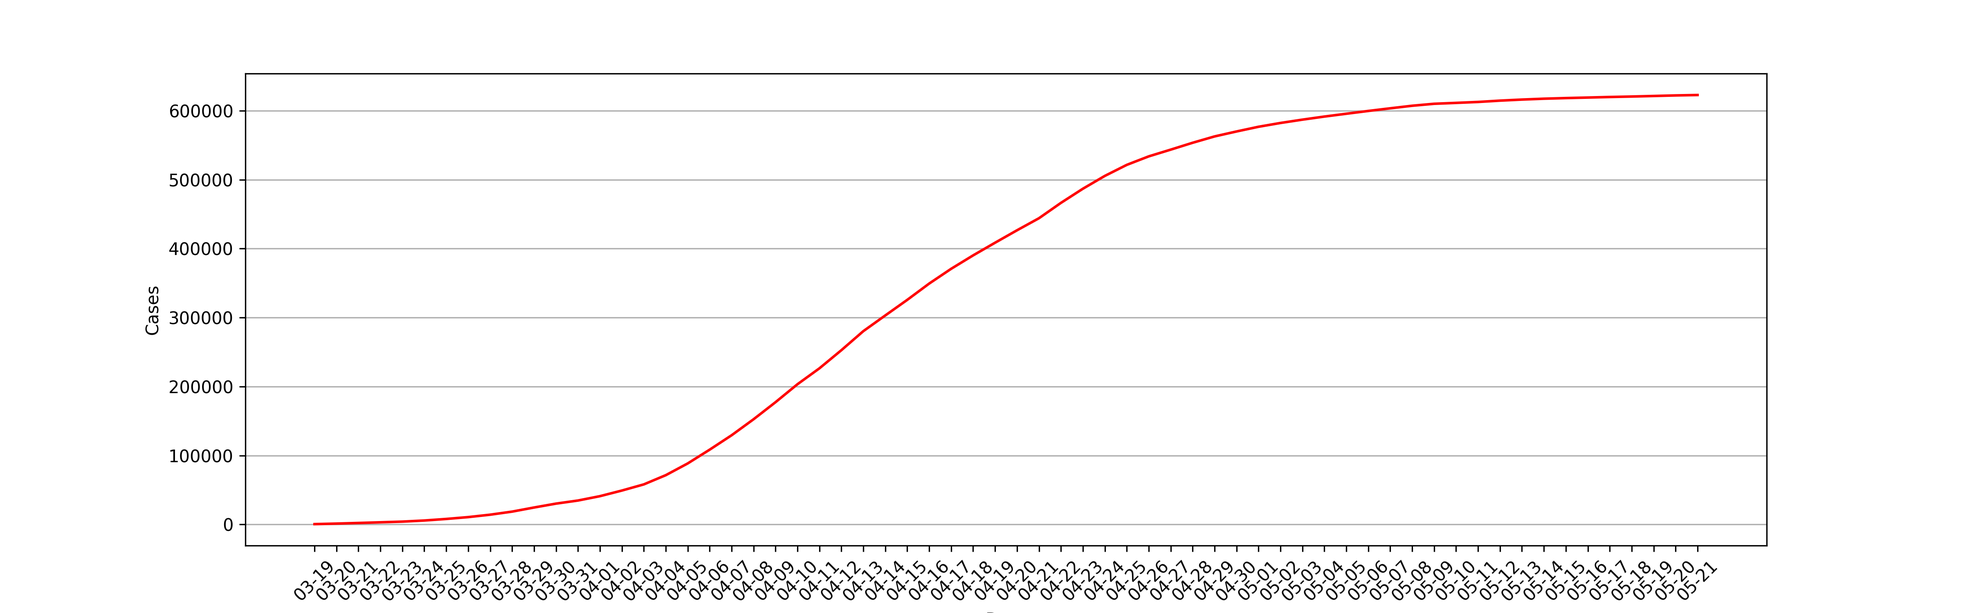
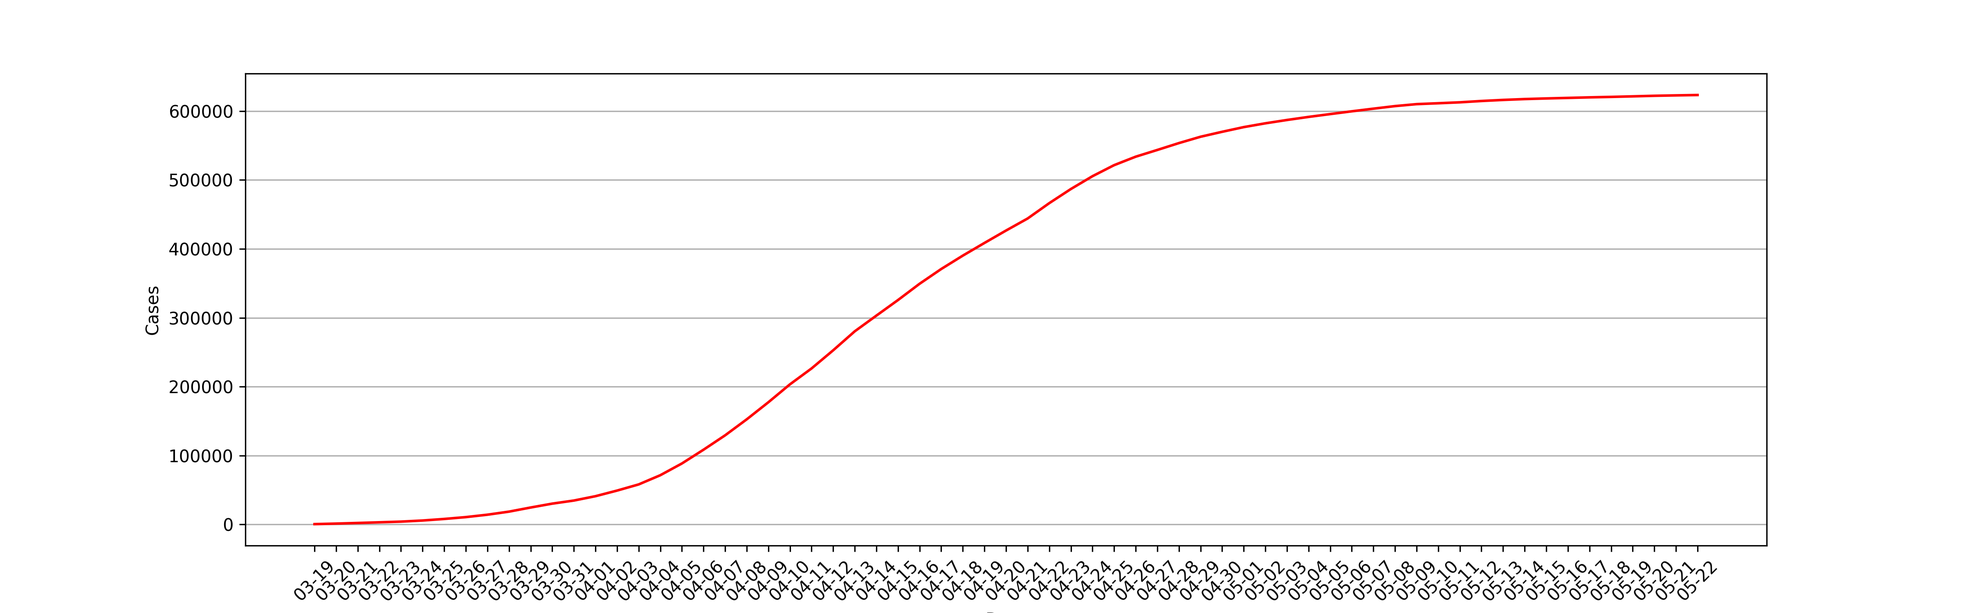
Commit by github action

diff --git a/archived_html/4612361ba025e48d12b78660a953841f.html b/archived_html/4612361ba025e48d12b78660a953841f.html
@@ -1,0 +1,151 @@
+<!DOCTYPE html>
+<html lang="zh-Hans">
+<head>
+    <meta charset="utf-8">
+    <meta http-equiv="Content-Security-Policy" content="upgrade-insecure-requests">
+    <meta name="viewport" content="width=device-width, initial-scale=1, maximum-scale=1, user-scalable=no">
+    <meta http-equiv="X-UA-Compatible" content="IE=Edge,chrome=1">
+    <meta http-equiv="Cache-Control" content="no-siteapp" />
+    <meta name="renderer" content="webkit">
+    <meta name="apple-mobile-web-app-capable" content="yes" />
+    <meta name="apple-mobile-web-app-status-bar-style" content="black" />
+    <title>上海2022年5月22日，新增本土新冠肺炎确诊病例55例 新增本土无症状感染者503例 新增境外输入性新冠肺炎确诊病例1例 新增境外输入性无症状感染者4例__上海市卫生健康委员会</title>
+    <meta name="ColumnDescription" content="新闻发布"><!-- * -->
+    <meta name="ColumnKeywords" content="新闻发布"><!-- * -->
+    <!--<meta name="ColumnType" content=""> * -->
+    <meta name="ColumnName" content="新闻发布"><!-- * -->
+    <meta name="ArticleTitle" content="上海2022年5月22日，新增本土新冠肺炎确诊病例55例 新增本土无症状感染者503例 新增境外输入性新冠肺炎确诊病例1例 新增境外输入性无症状感染者4例"><!-- * -->
+    <meta name="PubDate" content="2022-05-23"><!-- * -->
+    <meta name="ContentSource" content="上海市卫生健康委员会"><!-- * -->
+    <meta name="Author" content="上海市卫生健康委员会">
+    <meta name="Description" content="" />
+    <meta name="applicable-device" content="pc;mobile">
+    <meta name="location" content="北纬N31°11′51.89″ 东经E121°30′5.42″">
+    <!-- min CSS -->
+    <link rel="stylesheet" href="/assets/css/ETUI/ETUI3.min.css">
+    <!-- Custom CSS -->
+    <link rel="stylesheet" href="/assets/plugin/owl/owl.carousel.css">
+    <link rel="stylesheet" href="/assets/css/style.css">
+    <link rel="stylesheet" href="/assets/css/responsive.css">
+    <link rel="stylesheet" href="/assets/css/ETUI/ETUI3.Utility.css">
+    <!-- icons -->
+    <link rel="shortcut icon" href="/assets/img/ico/favicon.png">
+    <!-- 无障碍工具条 -->
+   <!-- <link rel="stylesheet" href="http://www.shanghai.gov.cn/jhelper_V2.0/jhelper_tool_style.css">
+    <script src="http://www.shanghai.gov.cn/jhelper_V2.0/wsj/jhelper_config.js" charset="gb2312"></script>
+    <noscript>不能读取工具条配置</noscript>
+    <script src="http://www.shanghai.gov.cn/jhelper_V2.0/jhelper_2.0.js" charset="gb2312"></script>
+    <noscript>不能读取工具条</noscript> 
+     -->
+    <script type="text/javascript">
+        function onsubmmit(pageIndex){
+            $("#pageIndex").val(1);
+            $("#searchField").val("0");
+            $("#timeScope").val("0");
+            $("#cmsSearchId").val("0");
+            $("#searchForm").submit();
+        }
+        function onselsubmmit(){
+            $("#pageIndex").val(1);
+            $("#searchForm").submit();
+        }
+        function psubmmit(pageIndex){
+            $("#pageIndex").val(pageIndex);
+            $("#searchForm").submit();
+        }
+        // 栏目
+        function chsubmmit(searchChId){
+            $("#pageIndex").val(1);
+            $("#searchField").val("0");
+            $("#timeScope").val("0");
+            $("#cmsSearchId").val(searchChId);
+            $("#searchForm").submit();
+        }
+    </script> 
+    <!-- 无障碍工具条 -->
+</head>
+<body>
+    <div id="accessNull"></div>
+    <div id="container">
+        <div class="channelinfo hidden"></div>
+        <script src="/assets/js/header.js"></script>
+        <div class="main" id="main">
+            <script src="/assets/js/jiansuo.js"></script>
+            <div class="main-container margin-top-15">
+                <div class="container ">
+                    <div class="relitive">
+                        <ol class="breadcrumb">
+                           <span>您现在所在的位置：</span>
+                            <li><a href="/index.html">首页</a></li>
+                            <li class="active">新闻中心</li>
+                           
+                            <li class="active">新闻发布</li>
+                           
+                        </ol>
+                        <div class="date-se">
+                            <i class="iconfont">&#xe60b;</i> <span id="time"></span>
+                        </div>
+                    </div>
+
+                    <div class="Article">
+                        <h2 id="ivs_title" class="Article-title">上海2022年5月22日，新增本土新冠肺炎确诊病例55例 新增本土无症状感染者503例 新增境外输入性新冠肺炎确诊病例1例 新增境外输入性无症状感染者4例</br>
+                         <h2 class="Article-title">
+                            <small id="ivs_date" class="Article-time">( 2022-05-23)</small>
+                        </h2>
+                        <div id="ivs_player" style="text-align:center;"></div>
+                        <div id="ivs_content" class="Article_content">
+                           
+                                 <p style="font-size: medium;white-space: normal;margin-top: 10px;text-indent: 40px"><span style="font-size: 20px;font-family: 仿宋_GB2312">市卫健委今早（23日）通报：2022年5月22日0—24时，新增本土新冠肺炎确诊病例55例和无症状感染者503例，其中30例确诊病例为既往无症状感染者转归，25例确诊病例和503例无症状感染者在隔离管控中发现。新增境外输入性新冠肺炎确诊病例1例和无症状感染者4例，均在闭环管控中发现。</span></p><p style="font-size: medium;white-space: normal;margin-top: 10px;text-indent: 40px"><span style="font-size: 20px;font-family: 仿宋_GB2312">2022</span><span style="font-size: 20px;font-family: 仿宋_GB2312">年5月22日0—24时，新增本土新冠肺炎确诊病例55例，含30例由既往无症状感染者转为确诊病例。新增治愈出院235例。</span></p><p style="font-size: medium;white-space: normal;margin-top: 10px;text-indent: 40px"><strong><span style="font-size: 20px;font-family: 黑体">病例1—病例9</span></strong><span style="font-size: 20px;font-family: 仿宋_GB2312">，居住于浦东新区，</span><strong><span style="font-size: 20px;font-family: 黑体">病例10</span></strong><span style="font-size: 20px;font-family: 仿宋_GB2312">，居住于静安区，</span><strong><span style="font-size: 20px;font-family: 黑体">病例11—病例19</span></strong><span style="font-size: 20px;font-family: 仿宋_GB2312">，居住于杨浦区，</span><strong><span style="font-size: 20px;font-family: 黑体">病例20—病例24</span></strong><span style="font-size: 20px;font-family: 仿宋_GB2312">，居住于宝山区，</span><strong><span style="font-size: 20px;font-family: 黑体">病例25</span></strong><span style="font-size: 20px;font-family: 仿宋_GB2312">，居住于嘉定区，均为本市闭环隔离管控人员，其间新冠病毒核酸检测结果异常，经疾控中心复核结果为阳性。经市级专家会诊，综合流行病学史、临床症状、实验室检测和影像学检查结果等，诊断为确诊病例。</span></p><p style="font-size: medium;white-space: normal;margin-top: 10px;text-indent: 40px"><strong><span style="font-size: 20px;font-family: 黑体">病例26</span></strong><span style="font-size: 20px;font-family: 仿宋_GB2312">，居住于浦东新区，</span><strong><span style="font-size: 20px;font-family: 黑体">病例27—病例31</span></strong><span style="font-size: 20px;font-family: 仿宋_GB2312">，居住于黄浦区，</span><strong><span style="font-size: 20px;font-family: 黑体">病例32—病例34</span></strong><span style="font-size: 20px;font-family: 仿宋_GB2312">，居住于徐汇区，</span><strong><span style="font-size: 20px;font-family: 黑体">病例35</span></strong><span style="font-size: 20px;font-family: 仿宋_GB2312">，居住于静安区，</span><strong><span style="font-size: 20px;font-family: 黑体">病例36—病例38</span></strong><span style="font-size: 20px;font-family: 仿宋_GB2312">，居住于虹口区，</span><strong><span style="font-size: 20px;font-family: 黑体">病例39—病例52</span></strong><span style="font-size: 20px;font-family: 仿宋_GB2312">，居住于杨浦区，</span><strong><span style="font-size: 20px;font-family: 黑体">病例53、病例54</span></strong><span style="font-size: 20px;font-family: 仿宋_GB2312">，居住于闵行区，</span><strong><span style="font-size: 20px;font-family: 黑体">病例55</span></strong><span style="font-size: 20px;font-family: 仿宋_GB2312">，居住于宝山区，</span><span style="font-size: 20px;font-family: 仿宋_GB2312">为此前报告的本土无症状感染者。</span><span style="font-size: 20px;font-family: 仿宋_GB2312">经市级专家会诊，综合流行病学史、临床症状、实验室检测和影像学检查结果等，诊断为确诊病例。</span></p><p style="font-size: medium;white-space: normal;margin-top: 10px;text-indent: 40px"><span style="font-size: 20px;font-family: 仿宋_GB2312">2022</span><span style="font-size: 20px;font-family: 仿宋_GB2312">年5月22日0—24时，新增本土死亡1例。患者女性，93岁，合并有心律失常、高血压3级（极高危）、焦虑、抑郁障碍等基础疾病，入院后因突发急性心肌梗死，经抢救无效死亡。死亡原因为基础疾病。</span></p><p style="font-size: medium;white-space: normal;margin-top: 10px;text-indent: 40px"><span style="font-size: 20px;font-family: 仿宋_GB2312">2022</span><span style="font-size: 20px;font-family: 仿宋_GB2312">年5月22日0—24时，新增本土无症状感染者503例。</span></p><p style="font-size: medium;white-space: normal;text-indent: 40px"><strong><span style="font-size: 20px;font-family: 黑体">无症状感染者1—无症状感染者49</span></strong><span style="font-size: 20px;font-family: 仿宋_GB2312">，居住于浦东新区，</span><strong><span style="font-size: 20px;font-family: 黑体">无症状感染者50—无症状感染者87</span></strong><span style="font-size: 20px;font-family: 仿宋_GB2312">，居住于黄浦区，</span><strong><span style="font-size: 20px;font-family: 黑体">无症状感染者88—无症状感染者126</span></strong><span style="font-size: 20px;font-family: 仿宋_GB2312">，居住于徐汇区，</span><strong><span style="font-size: 20px;font-family: 黑体">无症状感染者127—无症状感染者153</span></strong><span style="font-size: 20px;font-family: 仿宋_GB2312">，居住于长宁区，</span><strong><span style="font-size: 20px;font-family: 黑体">无症状感染者154—无症状感染者213</span></strong><span style="font-size: 20px;font-family: 仿宋_GB2312">，居住于静安区，</span><strong><span style="font-size: 20px;font-family: 黑体">无症状感染者214—无症状感染者225</span></strong><span style="font-size: 20px;font-family: 仿宋_GB2312">，居住于普陀区，</span><strong><span style="font-size: 20px;font-family: 黑体">无症状感染者226—无症状感染者338</span></strong><span style="font-size: 20px;font-family: 仿宋_GB2312">，居住于虹口区，</span><strong><span style="font-size: 20px;font-family: 黑体">无症状感染者339—无症状感染者454</span></strong><span style="font-size: 20px;font-family: 仿宋_GB2312">，居住于杨浦区，</span><strong><span style="font-size: 20px;font-family: 黑体">无症状感染者455—无症状感染者467</span></strong><span style="font-size: 20px;font-family: 仿宋_GB2312">，居住于闵行区，</span><strong><span style="font-size: 20px;font-family: 黑体">无症状感染者468—无症状感染者495</span></strong><span style="font-size: 20px;font-family: 仿宋_GB2312">，居住于宝山区，</span><strong><span style="font-size: 20px;font-family: 黑体">无症状感染者496</span></strong><span style="font-size: 20px;font-family: 仿宋_GB2312">，居住于嘉定区，</span><strong><span style="font-size: 20px;font-family: 黑体">无症状感染者497—无症状感染者501</span></strong><span style="font-size: 20px;font-family: 仿宋_GB2312">，居住于松江区，</span><strong><span style="font-size: 20px;font-family: 黑体">无症状感染者502、无症状感染者503</span></strong><span style="font-size: 20px;font-family: 仿宋_GB2312">，居住于青浦区，</span><span style="font-size: 20px;font-family: 仿宋_GB2312">均为本市闭环隔离管控人员，其间新冠病毒核酸检测结果</span><span style="font-size: 20px;font-family: 仿宋_GB2312">异常，经疾控中心复核结果为阳性，诊断为无症状感染者。</span></p><p style="font-size: medium;white-space: normal;text-indent: 40px"><span style="font-size: 20px;font-family: 仿宋_GB2312">2022</span><span style="font-size: 20px;font-family: 仿宋_GB2312">年5月22日0—24时，</span><span style="font-size: 20px;font-family: 仿宋_GB2312">通过口岸联防联控机制，报告1例新增境外输入性新冠肺炎确诊病例。治愈出院2例，其中来自美国1例，来自台湾地区1例。</span></p><p style="font-size: medium;white-space: normal;text-indent: 40px"><strong><span style="font-size: 20px;font-family: 黑体">该病例</span></strong><span style="font-size: 20px;font-family: 仿宋_GB2312">为中国籍，在刚果（金）工作，自刚果（金）出发，经法国转机，于2022年5月17日抵达上海浦东国际机场，入关后即被集中隔离观察，其间出现症状。综合流行病学史、临床症状、实验室检测和影像学检查结果等，诊断为确诊病例。</span></p><p style="font-size: medium;white-space: normal;text-indent: 40px"><span style="font-size: 20px;font-family: 仿宋_GB2312">该境外输入性确诊病例已转至定点医疗机构救治，同航班密切接触者此前均已落实集中隔离观察。</span></p><p style="font-size: medium;white-space: normal;text-indent: 40px"><span style="font-size: 20px;font-family: 仿宋_GB2312">2022</span><span style="font-size: 20px;font-family: 仿宋_GB2312">年5月22日0—24时，新增境外输入性无症状感染者4例。</span></p><p style="font-size: medium;white-space: normal;text-indent: 40px"><strong><span style="font-size: 20px;font-family: 黑体">无症状感染者1、无症状感染者2</span></strong><span style="font-size: 20px;font-family: 仿宋_GB2312">均为中国籍，在美国留学，自美国出发，乘坐同一航班，于2022年5月14日抵达上海浦东国际机场，入关后即被集中隔离观察，其间例行核酸检测异常。经排查，区疾控中心新冠病毒核酸检测结果为阳性。综合流行病学史、临床症状、实验室检测和影像学检查结果等，诊断为无症状感染者。</span></p><p style="font-size: medium;white-space: normal;text-indent: 40px"><strong><span style="font-size: 20px;font-family: 黑体">无症状感染者3</span></strong><span style="font-size: 20px;font-family: 仿宋_GB2312">为中国籍，在加拿大留学，自加拿大出发，于2022年5月21日抵达上海浦东国际机场，入关后即被集中隔离观察，其间例行核酸检测异常。经排查，区疾控中心新冠病毒核酸检测结果为阳性。综合流行病学史、临床症状、实验室检测和影像学检查结果等，诊断为无症状感染者。</span></p><p style="font-size: medium;white-space: normal;text-indent: 40px"><strong><span style="font-size: 20px;font-family: 黑体">无症状感染者4</span></strong><span style="font-size: 20px;font-family: 仿宋_GB2312">为中国籍，在美国留学，自美国出发，于2022年5月21日抵达上海浦东国际机场，入关后即被集中隔离观察，其间例行核酸检测异常。经排查，区疾控中心新冠病毒核酸检测结果为阳性。综合流行病学史、临床症状、实验室检测和影像学检查结果等，诊断为无症状感染者。</span></p><p style="font-size: medium;white-space: normal;text-indent: 40px"><span style="font-size: 20px;font-family: 仿宋_GB2312">4</span><span style="font-size: 20px;font-family: 仿宋_GB2312">例境外输入性无症状感染者已转至定点医疗机构医学观察，已追踪同航班密切接触者27人，均已落实集中隔离观察。</span></p><p style="font-size: medium;white-space: normal;text-indent: 40px"><span style="font-size: 20px;font-family: 仿宋_GB2312">2022</span><span style="font-size: 20px;font-family: 仿宋_GB2312">年5月22日0—24时，解除医学观察本土无症状感染者2784例。</span></p><p style="font-size: medium;white-space: normal;margin-top: 10px;text-indent: 40px;vertical-align: baseline"><span style="font-size: 20px;font-family: 仿宋_GB2312">2022</span><span style="font-size: 20px;font-family: 仿宋_GB2312">年2月26日0时至2022年5月22日24时，累计本土确诊57717例，治愈出院54396例，在院治疗2736例（其中重型135例，危重型38例），死亡585。现有待排查的疑似病例0例。</span></p><p style="font-size: medium;white-space: normal;margin-top: 10px;text-indent: 40px;vertical-align: baseline"><span style="font-size: 20px;font-family: 仿宋_GB2312">截至2022年5月22日24时，累计境外输入性确诊病例4605例，出院4598例，在院治疗7例。现有待排查的疑似病例0例。</span></p><p style="font-size: medium;white-space: normal;margin-top: 10px;text-indent: 40px;vertical-align: baseline"><span style="font-size: 20px;font-family: 仿宋_GB2312"><br/></span></p><table align="center" cellspacing="0" cellpadding="0" width="544"><tbody><tr style="height: 24px" class="firstRow"><td width="379" colspan="2" style="border-width: 1px; border-color: windowtext; padding: 0px 7px; border-style: solid;" height="24"><p style="text-align: center;vertical-align: baseline"><strong><span style="font-size: 19px;font-family: 仿宋_GB2312">区域</span></strong></p></td><td width="165" style="border-width: 1px; border-top-color: windowtext; border-right-color: windowtext; border-bottom-color: windowtext; border-style: solid; border-left-color: initial; padding: 0px 7px;" height="24"><p style="text-align: center;vertical-align: baseline"><strong><span style="font-size: 19px;font-family: 仿宋_GB2312">在院治疗确诊病例</span></strong></p></td></tr><tr style="height: 42px"><td width="213" rowspan="4" style="border-width: 1px; border-right-color: windowtext; border-bottom-color: windowtext; border-left-color: windowtext; border-style: solid; border-top-color: initial; padding: 0px 7px;" height="42"><p style="text-align: center;vertical-align: baseline"><span style="font-size: 19px;font-family: 仿宋_GB2312">境外输入人员</span></p><p style="text-align: center;vertical-align: baseline"><span style="font-size: 19px;font-family: 仿宋_GB2312">（按输入地分）</span></p></td><td width="165" valign="top" style="border-width: 1px; border-style: solid; border-top-color: initial; border-left-color: initial; border-bottom-color: windowtext; border-right-color: windowtext; padding: 0px 7px;" height="42"><p style="text-align: center;vertical-align: middle"><span style="font-size: 19px;font-family: 仿宋_GB2312">美国</span></p></td><td width="165" valign="top" style="border-width: 1px; border-style: solid; border-top-color: initial; border-left-color: initial; border-bottom-color: windowtext; border-right-color: windowtext; padding: 0px 7px;" height="42"><p style="text-align: center;vertical-align: middle"><span style="font-size: 19px;font-family: 仿宋_GB2312">4</span></p></td></tr><tr style="height: 42px"><td width="165" valign="top" style="border-width: 1px; border-style: solid; border-top-color: initial; border-left-color: initial; border-bottom-color: windowtext; border-right-color: windowtext; padding: 0px 7px;" height="42"><p style="text-align: center;vertical-align: middle"><span style="font-size: 19px;font-family: 仿宋_GB2312">加拿大</span></p></td><td width="165" valign="top" style="border-width: 1px; border-style: solid; border-top-color: initial; border-left-color: initial; border-bottom-color: windowtext; border-right-color: windowtext; padding: 0px 7px;" height="42"><p style="text-align: center;vertical-align: middle"><span style="font-size: 19px;font-family: 仿宋_GB2312">1</span></p></td></tr><tr style="height: 42px"><td width="165" valign="top" style="border-width: 1px; border-style: solid; border-top-color: initial; border-left-color: initial; border-bottom-color: windowtext; border-right-color: windowtext; padding: 0px 7px;" height="42"><p style="text-align: center;vertical-align: middle"><span style="font-size: 19px;font-family: 仿宋_GB2312">刚果（金）</span></p></td><td width="165" valign="top" style="border-width: 1px; border-style: solid; border-top-color: initial; border-left-color: initial; border-bottom-color: windowtext; border-right-color: windowtext; padding: 0px 7px;" height="42"><p style="text-align: center;vertical-align: middle"><span style="font-size: 19px;font-family: 仿宋_GB2312">1</span></p></td></tr><tr style="height: 42px"><td width="165" valign="top" style="border-width: 1px; border-style: solid; border-top-color: initial; border-left-color: initial; border-bottom-color: windowtext; border-right-color: windowtext; padding: 0px 7px;" height="42"><p style="text-align: center;vertical-align: middle"><span style="font-size: 19px;font-family: 仿宋_GB2312">英国</span></p></td><td width="165" valign="top" style="border-width: 1px; border-style: solid; border-top-color: initial; border-left-color: initial; border-bottom-color: windowtext; border-right-color: windowtext; padding: 0px 7px;" height="42"><p style="text-align: center;vertical-align: middle"><span style="font-size: 19px;font-family: 仿宋_GB2312">1</span></p></td></tr><tr style="height: 33px"><td width="213" rowspan="16" style="border-width: 1px; border-right-color: windowtext; border-bottom-color: windowtext; border-left-color: windowtext; border-style: solid; border-top-color: initial; padding: 0px 7px;" height="33"><p style="text-indent: 19px;vertical-align: baseline"><span style="font-size: 19px;font-family: 仿宋_GB2312">本市居住或工作地</span></p></td><td width="165" style="border-width: 1px; border-style: solid; border-top-color: initial; border-left-color: initial; border-bottom-color: windowtext; border-right-color: windowtext; padding: 0px 7px;" height="33"><p style="text-align: center;vertical-align: middle"><span style="font-size: 19px;font-family: 仿宋_GB2312">浦东</span></p></td><td width="165" style="border-width: 1px; border-style: solid; border-top-color: initial; border-left-color: initial; border-bottom-color: windowtext; border-right-color: windowtext; padding: 0px 7px;" height="33"><p style="text-align: center"><span style="font-size: 19px;font-family: 仿宋_GB2312">236</span></p></td></tr><tr style="height: 33px"><td width="165" style="border-width: 1px; border-style: solid; border-top-color: initial; border-left-color: initial; border-bottom-color: windowtext; border-right-color: windowtext; padding: 0px 7px;" height="33"><p style="text-align: center;vertical-align: middle"><span style="font-size: 19px;font-family: 仿宋_GB2312">黄浦</span></p></td><td width="165" style="border-width: 1px; border-style: solid; border-top-color: initial; border-left-color: initial; border-bottom-color: windowtext; border-right-color: windowtext; padding: 0px 7px;" height="33"><p style="text-align: center"><span style="font-size: 19px;font-family: 仿宋_GB2312">388</span></p></td></tr><tr style="height: 33px"><td width="165" style="border-width: 1px; border-style: solid; border-top-color: initial; border-left-color: initial; border-bottom-color: windowtext; border-right-color: windowtext; padding: 0px 7px;" height="33"><p style="text-align: center;vertical-align: middle"><span style="font-size: 19px;font-family: 仿宋_GB2312">徐汇</span></p></td><td width="165" style="border-width: 1px; border-style: solid; border-top-color: initial; border-left-color: initial; border-bottom-color: windowtext; border-right-color: windowtext; padding: 0px 7px;" height="33"><p style="text-align: center"><span style="font-size: 19px;font-family: 仿宋_GB2312">388</span></p></td></tr><tr style="height: 33px"><td width="165" style="border-width: 1px; border-style: solid; border-top-color: initial; border-left-color: initial; border-bottom-color: windowtext; border-right-color: windowtext; padding: 0px 7px;" height="33"><p style="text-align: center;vertical-align: middle"><span style="font-size: 19px;font-family: 仿宋_GB2312">长宁</span></p></td><td width="165" style="border-width: 1px; border-style: solid; border-top-color: initial; border-left-color: initial; border-bottom-color: windowtext; border-right-color: windowtext; padding: 0px 7px;" height="33"><p style="text-align: center"><span style="font-size: 19px;font-family: 仿宋_GB2312">180</span></p></td></tr><tr style="height: 33px"><td width="165" style="border-width: 1px; border-style: solid; border-top-color: initial; border-left-color: initial; border-bottom-color: windowtext; border-right-color: windowtext; padding: 0px 7px;" height="33"><p style="text-align: center;vertical-align: middle"><span style="font-size: 19px;font-family: 仿宋_GB2312">静安</span></p></td><td width="165" style="border-width: 1px; border-style: solid; border-top-color: initial; border-left-color: initial; border-bottom-color: windowtext; border-right-color: windowtext; padding: 0px 7px;" height="33"><p style="text-align: center"><span style="font-size: 19px;font-family: 仿宋_GB2312">431</span></p></td></tr><tr style="height: 33px"><td width="165" style="border-width: 1px; border-style: solid; border-top-color: initial; border-left-color: initial; border-bottom-color: windowtext; border-right-color: windowtext; padding: 0px 7px;" height="33"><p style="text-align: center;vertical-align: middle"><span style="font-size: 19px;font-family: 仿宋_GB2312">普陀</span></p></td><td width="165" style="border-width: 1px; border-style: solid; border-top-color: initial; border-left-color: initial; border-bottom-color: windowtext; border-right-color: windowtext; padding: 0px 7px;" height="33"><p style="text-align: center"><span style="font-size: 19px;font-family: 仿宋_GB2312">248</span></p></td></tr><tr style="height: 33px"><td width="165" style="border-width: 1px; border-style: solid; border-top-color: initial; border-left-color: initial; border-bottom-color: windowtext; border-right-color: windowtext; padding: 0px 7px;" height="33"><p style="text-align: center;vertical-align: middle"><span style="font-size: 19px;font-family: 仿宋_GB2312">虹口</span></p></td><td width="165" style="border-width: 1px; border-style: solid; border-top-color: initial; border-left-color: initial; border-bottom-color: windowtext; border-right-color: windowtext; padding: 0px 7px;" height="33"><p style="text-align: center"><span style="font-size: 19px;font-family: 仿宋_GB2312">277</span></p></td></tr><tr style="height: 33px"><td width="165" style="border-width: 1px; border-style: solid; border-top-color: initial; border-left-color: initial; border-bottom-color: windowtext; border-right-color: windowtext; padding: 0px 7px;" height="33"><p style="text-align: center;vertical-align: middle"><span style="font-size: 19px;font-family: 仿宋_GB2312">杨浦</span></p></td><td width="165" style="border-width: 1px; border-style: solid; border-top-color: initial; border-left-color: initial; border-bottom-color: windowtext; border-right-color: windowtext; padding: 0px 7px;" height="33"><p style="text-align: center"><span style="font-size: 19px;font-family: 仿宋_GB2312">471</span></p></td></tr><tr style="height: 33px"><td width="165" style="border-width: 1px; border-style: solid; border-top-color: initial; border-left-color: initial; border-bottom-color: windowtext; border-right-color: windowtext; padding: 0px 7px;" height="33"><p style="text-align: center;vertical-align: middle"><span style="font-size: 19px;font-family: 仿宋_GB2312">闵行</span></p></td><td width="165" style="border-width: 1px; border-style: solid; border-top-color: initial; border-left-color: initial; border-bottom-color: windowtext; border-right-color: windowtext; padding: 0px 7px;" height="33"><p style="text-align: center"><span style="font-size: 19px;font-family: 仿宋_GB2312">13</span></p></td></tr><tr style="height: 33px"><td width="165" style="border-width: 1px; border-style: solid; border-top-color: initial; border-left-color: initial; border-bottom-color: windowtext; border-right-color: windowtext; padding: 0px 7px;" height="33"><p style="text-align: center;vertical-align: middle"><span style="font-size: 19px;font-family: 仿宋_GB2312">宝山</span></p></td><td width="165" style="border-width: 1px; border-style: solid; border-top-color: initial; border-left-color: initial; border-bottom-color: windowtext; border-right-color: windowtext; padding: 0px 7px;" height="33"><p style="text-align: center"><span style="font-size: 19px;font-family: 仿宋_GB2312">16</span></p></td></tr><tr style="height: 33px"><td width="165" style="border-width: 1px; border-style: solid; border-top-color: initial; border-left-color: initial; border-bottom-color: windowtext; border-right-color: windowtext; padding: 0px 7px;" height="33"><p style="text-align: center;vertical-align: middle"><span style="font-size: 19px;font-family: 仿宋_GB2312">嘉定</span></p></td><td width="165" style="border-width: 1px; border-style: solid; border-top-color: initial; border-left-color: initial; border-bottom-color: windowtext; border-right-color: windowtext; padding: 0px 7px;" height="33"><p style="text-align: center"><span style="font-size: 19px;font-family: 仿宋_GB2312">11</span></p></td></tr><tr style="height: 33px"><td width="165" style="border-width: 1px; border-style: solid; border-top-color: initial; border-left-color: initial; border-bottom-color: windowtext; border-right-color: windowtext; padding: 0px 7px;" height="33"><p style="text-align: center;vertical-align: middle"><span style="font-size: 19px;font-family: 仿宋_GB2312">金山</span></p></td><td width="165" style="border-width: 1px; border-style: solid; border-top-color: initial; border-left-color: initial; border-bottom-color: windowtext; border-right-color: windowtext; padding: 0px 7px;" height="33"><p style="text-align: center"><span style="font-size: 19px;font-family: 仿宋_GB2312">1</span></p></td></tr><tr style="height: 33px"><td width="165" style="border-width: 1px; border-style: solid; border-top-color: initial; border-left-color: initial; border-bottom-color: windowtext; border-right-color: windowtext; padding: 0px 7px;" height="33"><p style="text-align: center;vertical-align: middle"><span style="font-size: 19px;font-family: 仿宋_GB2312">松江</span></p></td><td width="165" style="border-width: 1px; border-style: solid; border-top-color: initial; border-left-color: initial; border-bottom-color: windowtext; border-right-color: windowtext; padding: 0px 7px;" height="33"><p style="text-align: center"><span style="font-size: 19px;font-family: 仿宋_GB2312">2</span></p></td></tr><tr style="height: 33px"><td width="165" style="border-width: 1px; border-style: solid; border-top-color: initial; border-left-color: initial; border-bottom-color: windowtext; border-right-color: windowtext; padding: 0px 7px;" height="33"><p style="text-align: center;vertical-align: middle"><span style="font-size: 19px;font-family: 仿宋_GB2312">青浦</span></p></td><td width="165" style="border-width: 1px; border-style: solid; border-top-color: initial; border-left-color: initial; border-bottom-color: windowtext; border-right-color: windowtext; padding: 0px 7px;" height="33"><p style="text-align: center"><span style="font-size: 19px;font-family: 仿宋_GB2312">1</span></p></td></tr><tr style="height: 33px"><td width="165" style="border-width: 1px; border-style: solid; border-top-color: initial; border-left-color: initial; border-bottom-color: windowtext; border-right-color: windowtext; padding: 0px 7px;" height="33"><p style="text-align: center;vertical-align: middle"><span style="font-size: 19px;font-family: 仿宋_GB2312">奉贤</span></p></td><td width="165" style="border-width: 1px; border-style: solid; border-top-color: initial; border-left-color: initial; border-bottom-color: windowtext; border-right-color: windowtext; padding: 0px 7px;" height="33"><p style="text-align: center"><span style="font-size: 19px;font-family: 仿宋_GB2312">55</span></p></td></tr><tr style="height: 33px"><td width="165" style="border-width: 1px; border-style: solid; border-top-color: initial; border-left-color: initial; border-bottom-color: windowtext; border-right-color: windowtext; padding: 0px 7px;" height="33"><p style="text-align: center;vertical-align: middle"><span style="font-size: 19px;font-family: 仿宋_GB2312">崇明</span></p></td><td width="165" style="border-width: 1px; border-style: solid; border-top-color: initial; border-left-color: initial; border-bottom-color: windowtext; border-right-color: windowtext; padding: 0px 7px;" height="33"><p style="text-align: center"><span style="font-size: 19px;font-family: 仿宋_GB2312">18</span></p></td></tr><tr style="height: 33px"><td width="379" colspan="2" style="border-width: 1px; border-right-color: windowtext; border-bottom-color: windowtext; border-left-color: windowtext; border-style: solid; border-top-color: initial; padding: 0px 7px;" height="33"><p style="text-align: center;vertical-align: baseline"><span style="font-size: 19px;font-family: 仿宋_GB2312">合计</span></p></td><td width="165" style="border-width: 1px; border-style: solid; border-top-color: initial; border-left-color: initial; border-bottom-color: windowtext; border-right-color: windowtext; padding: 0px 7px;" height="33"><p style="text-align: center;vertical-align: baseline"><span style="font-size: 19px;font-family: 仿宋_GB2312">2743</span></p></td></tr></tbody></table><p style="font-size: medium;white-space: normal;margin-top: 10px;text-indent: 43px;vertical-align: baseline"><span style="font-size: 21px;font-family: Calibri, sans-serif">&nbsp;</span></p><p style="font-size: medium;white-space: normal;margin-top: 10px;text-indent: 43px;vertical-align: baseline"><span style="font-size: 21px;font-family: Calibri, sans-serif">&nbsp;</span></p><p><br/></p>
+                        </div>
+                        </div>
+                    </div>
+                </div>
+            </div>
+        </div>
+        <script src="/assets/js/footer.js"></script>
+        </div>
+    <!--Main JS-->
+    <script src="/assets/js/ETUI/jquery.min.1.12.4.js"></script>
+    <!--[if lt IE 9]>
+    <script src="/assets/js/ETUI/html5shiv.min.js"></script>
+    <script src="/assets/js/ETUI/respond.min.js"></script>
+    <![endif]-->
+    <script src="/assets/js/ETUI/ETUI3.min.js"></script>
+    <script src="/assets/plugin/owl/owl.carousel.min.js"></script>
+    <!--Custom JS-->
+    <script src="/assets/js/main.js"></script>
+    <script src="/assets/js/language.js"></script>
+    <!-- <script src="/assets/js/Time.js"></script> -->
+    <!--
+  <script src="/assets/js/jhelper_config.js" charset="gb2312"></script>
+<script type="text/javascript" src="https://jhelper.shanghai.gov.cn/publicJS/3100000010.js"></script>
+-->
+<script src="https://wsjkw.sh.gov.cn/wza/jhelper_config.js" charset="gb2312"></script>
+    <script type="text/javascript" src="http://jhelper.shanghai.gov.cn/publicJS/3100000010.js"></script>
+   <!-- <script type="text/javascript" src="http://voice.ewdcloud.com.cn:9292/js/ew_msc.js"></script>-->
+    <script>
+        jQuery(document).ready(function () {
+            Main.init();
+        });
+        jQuery(document).ready(function () {
+	        getToolbarMod();
+        });
+    </script>
+    <script>
+        function currentTime(){
+            var d = new Date(),str = '';
+            str += d.getFullYear()+'年';
+            str  += d.getMonth() + 1+'月';
+            str  += d.getDate()+'日';
+            var a = new Array("日", "一", "二", "三", "四", "五", "六");
+            var week = new Date().getDay();
+            var tody = "星期"+ a[week];
+            str +=' ';
+            str  += tody ;
+            return str;
+
+        }
+        setInterval(function(){$('#time').html(currentTime)},1000);
+    </script>
+</body>
+</html>

diff --git a/README.md b/README.md
@@ -35,6 +35,7 @@ git clone --depeth=1 https://github.com/lewangdev/shanghai-lockdown-covid-19.git
 
 | Date/Details | New Cases(*)  | Deaths | Confirmed Cases | Asymptomatic Cases | A2C Cases(*) |
 | ---- | ---------- | ---------- | ---------------- | ----------------- | ---------------------------- |
+| 2022-05-22 | 528 | 1 | 55 | 503 | 30 |
 | 2022-05-21 | 593 | 3 | 52 | 570 | 29 |
 | 2022-05-20 | 819 | 1 | 84 | 784 | 49 |
 | 2022-05-19 | 787 | 0 | 88 | 770 | 71 |
@@ -109,6 +110,7 @@ git clone --depeth=1 https://github.com/lewangdev/shanghai-lockdown-covid-19.git
 
 | Date | Total Cases  | Total Deaths | Case‑Fatality-Rate |
 | ---- | ---------- | ---------- | ---------- |
+| 2022-05-22 | 623265 | 585 | 0.0939% |
 | 2022-05-21 | 622737 | 584 | 0.0938% |
 | 2022-05-20 | 622144 | 581 | 0.0934% |
 | 2022-05-19 | 621325 | 580 | 0.0933% |
